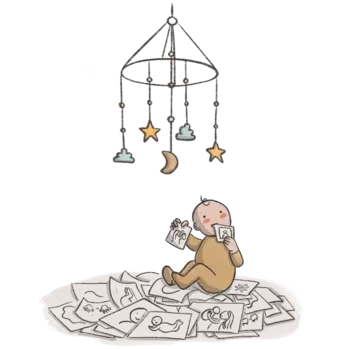
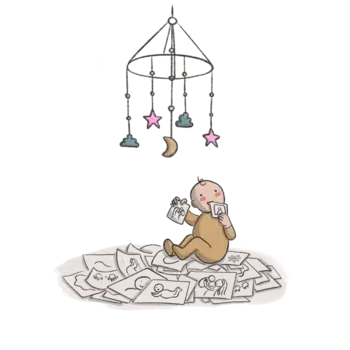
more colourful illustrations

Changed region(s): [[0.1143, 0.4871, 0.8571, 1.0], [0.3143, 0.0, 0.6571, 0.5158]]

diff --git a/docs/index.html b/docs/index.html
@@ -1,4 +1,5 @@
 <!doctype html>
+<!-- Handcrafted by Alex, Meg with substantial contribution from Roanne and Joe. -->
 <html>
     <head>
         <meta charset="UTF-8">
@@ -72,7 +73,7 @@
             <div class="grid grid-cols-1 md:grid-cols-3 md:grid-gap-8">
                 <section class="mx-auto py-10 md:px-3">
                     <div class="text-center prose font-headline font-black pb-3 text-brand-teal">We love taking photos &hellip;</div>
-                    <img loading="lazy" class="mx-auto w-2/3 pb-3" src="/assets/problem-statement-new-born-baby.fa8c6f42.webp" width="167" height="167" />
+                    <img loading="lazy" class="mx-auto w-2/3 pb-3" src="/assets/problem-statement-new-born-baby.c36cba5c.webp" width="167" height="167" />
                     <div class="prose">
                         <p>At the start you sorted, shared and maybe even
                         printed them. But with tens of thousands of pictures now
@@ -82,7 +83,7 @@
 
                 <section class="mx-auto py-10 md:px-3">
                     <div class="text-center prose font-headline font-black pb-3 text-brand-teal">The photo mountain grows</div>
-                    <img loading="lazy" class="mx-auto w-2/3 pb-5" src="/assets/problem-statement-overwhelmed-by-photos.4778e415.webp"  width="167" height="167" />
+                    <img loading="lazy" class="mx-auto w-2/3 pb-5" src="/assets/problem-statement-overwhelmed-by-photos.581cae9e.webp"  width="167" height="167" />
                     <div class="prose">
                         <p>The unorganised photo pile and the stress
                         around it keeps on getting bigger. With little time to
@@ -116,7 +117,7 @@
                 <section class="mb-12 w-full md:w-2/3 mx-auto lg:mx-3">
                     <p class="prose text-center font-headline font-black text-brand-teal text-2xl mt-10 mb-6">
                         <mark>Focus</mark> on what matters</p>
-                    <img loading="lazy" class="w-32 mb-2 md:mb-24 pr-3 float-left" src="/assets/feature-face-tagging.1d63396c.webp" width="117" height="117" />
+                    <img loading="lazy" class="w-32 mb-2 md:mb-24 pr-3 float-left" src="/assets/feature-face-tagging.f23d94b1.webp" width="117" height="117" />
                     <p class="prose mb-4">
                         Keepers automatically finds your family photos. It filters out screenshots, memes and identifies similar shots.
                     </p>
@@ -165,7 +166,7 @@
                 <section class="mb-12 w-full md:w-2/3 mx-auto lg:mx-3">
                     <p class="prose text-center font-headline font-black text-brand-teal text-2xl mt-10 mb-6">Create. 
                         <mark>Easy</mark> like the breeze</p>
-                    <img loading="lazy" class="w-32 mb-2 md:mb-24 pr-3 float-left" src="/assets/feature-easy-create.5253f8cd.webp"  width="117" height="117"/>
+                    <img loading="lazy" class="w-32 mb-2 md:mb-24 pr-3 float-left" src="/assets/feature-easy-create.ff6a3e3a.webp"  width="117" height="117"/>
                     <p class="prose mb-4">
                         With all your photos organised, you can <mark>create photo books in minutes</mark>. 
                         Or share your pictures, create slideshows, playlists & videos for&nbsp;events.

diff --git a/index.html b/index.html
@@ -1,4 +1,5 @@
 <!doctype html>
+<!-- Handcrafted by Alex, Meg with substantial contribution from Roanne and Joe. -->
 <html>
     <head>
         <meta charset="UTF-8">
